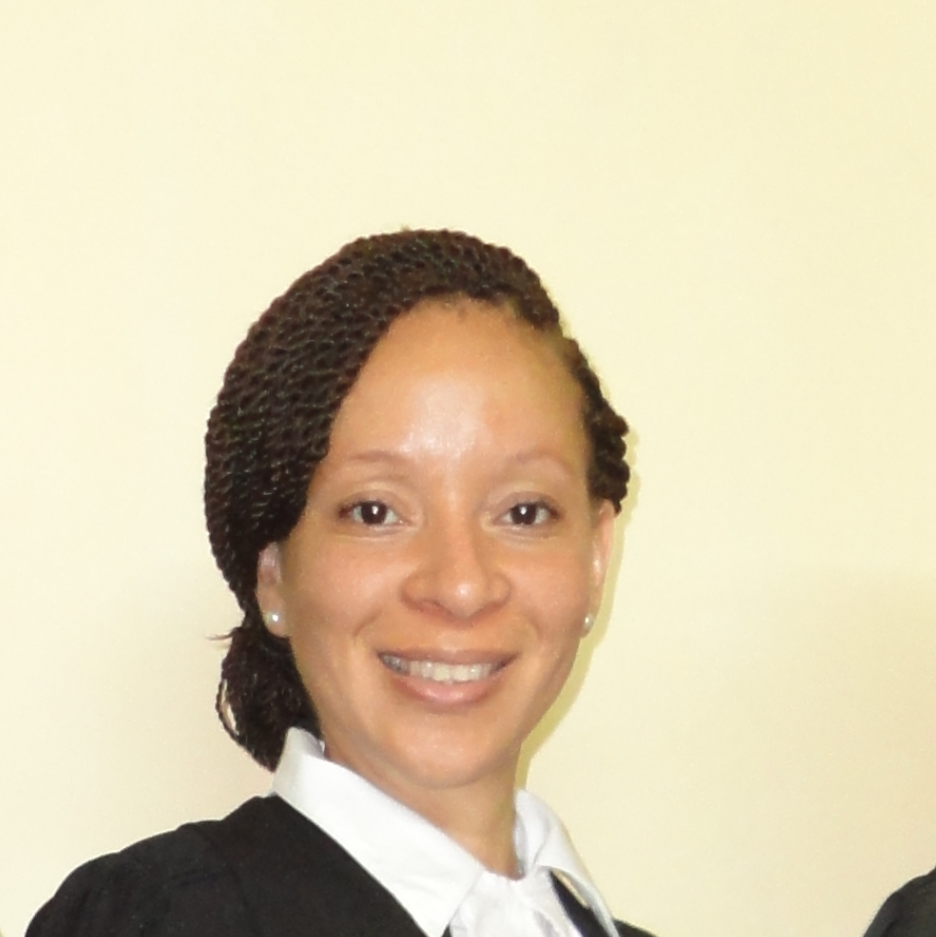
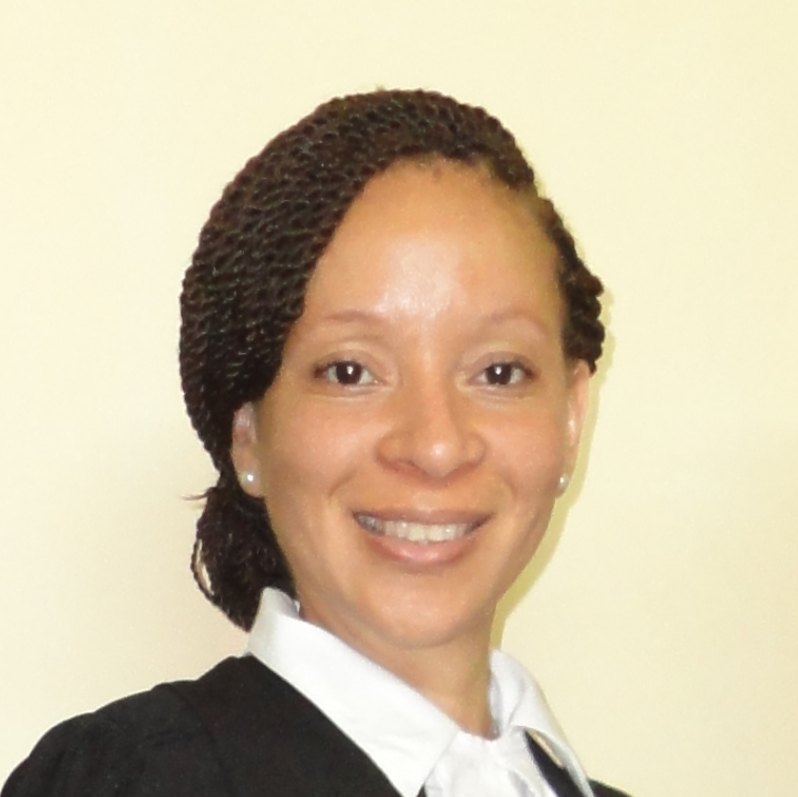
Who we are page completed and privacy policy and discllaimer title color changed

Changed region(s): [[0.0, 0.0903, 0.812, 1.0], [0.9023, 0.9034, 1.0, 1.0]]

diff --git a/_pages/who_we_are.html b/_pages/who_we_are.html
@@ -1,63 +1,85 @@
 ---
 layout: default
 permalink: /who_we_are/
-featured_image: '/images/banner-lawbooks.jpg'
+featured_image: '/images/welcome-stone.png'
 ---
 
 {% for item in site.data.who_we_are.content%}
-<div class="container side-padding border categories">
-    <div class="row">
-        <div class="col-sm-12 heading centered-text"><h3>{{ item.heading }}</h3></div>
-        <div class="content">
-                <p class="text base-padding {{item.format}}">{{ item.text }}</p>
-       	</div>
-    </div>  
-</div>
-{% endfor %}
+<div class="container">
+        <div class="row">
+            <div class="col-sm-12 heading centered-text"><h1>{{ item.heading }}</h1></div>
+            <div class="content">
+                    <p class="text base-padding {{item.format}}">{{ item.text }}</p>
+            </div>
+        </div>  
+    {% endfor %}
 
-<div class="container side-padding border categories">
+    <div class="row divider-padding  no-padding-divider">
+        <div class="col-xs-2 section-divider background-red divider-height">
+        </div>
+        <div class="col-xs-10 section-divider background-grey divider-height">
+        </div>
+    </div>
+</div>
+
+<div class="container">
     <div class="row">
-        <div class="col-sm-12 heading centered-text"><h3>{{ site.data.who_we_are.the_team.heading }}</h3></div>
+        <div class="col-sm-12 heading centered-text"><h1>{{ site.data.who_we_are.the_team.heading }}</h1></div>
             <div class="the_team">
             	<p class="text justify-text base-padding">{{ site.data.who_we_are.the_team.intro-text }}</p>
             </div>
     </div>
 
-
-
-
-
     {% for item in site.data.who_we_are.bios %}
-        <div class="container side-padding">
-            <div class="row is-flex">
-                {% if item.image-location == 'left' %}
-                    <div class="col-sm-4">
-                        <div class="center-img">
-                            <img class="bio-img" src="{{item.image-url}}"/>
-                        </div>
-                    </div>                       
-                    <div class="col-sm-8">
-                        <div class="heading base-padding"><h3>{{item.heading}}</h3></div>
-                        <div class="bio">
-                            <p class="text base-padding justify-text">{{ item.text }}</p>
-                        </div>
+    <div class="container">
+        <div class="row is-flex">
+            {% if item.image-location == 'left' %}
+                <div class="col-sm-4">
+                    <div class="center-img">
+                        <img class="bio-img" src="{{item.image-url}}"/>
                     </div>
+                </div>                       
+                <div class="col-sm-8">
+                    <div class="heading base-padding"><h3>{{item.heading}}</h3></div>
+                    <div class="bio">
+                        <p class="text base-padding justify-text">{{ item.text }}</p>
+                    </div>
+                </div>
 
-                {% else %}
-                    <div class="col-sm-4 col-sm-push-8">
-                        <div class="center-img">    
-                            <img class="bio-img" src="{{item.image-url}}"/>
-                        </div>
+            {% else %}
+                <div class="col-sm-4 col-sm-push-8">
+                    <div class="center-img">    
+                        <img class="bio-img" src="{{item.image-url}}"/>
                     </div>
-                    <div class="col-sm-8 col-sm-pull-4">
-                        <div class="heading base-padding"><h3>{{item.heading}}</h3></div>
-                        <div class="bio">
-                            <p class="text base-padding justify-text">{{ item.text }}</p>
-                        </div>
-                    </div>        
-                {% endif %}            
-            </div>
+                </div>
+                <div class="col-sm-8 col-sm-pull-4">
+                    <div class="heading base-padding"><h3>{{item.heading}}</h3></div>
+                    <div class="bio">
+                        <p class="text base-padding justify-text">{{ item.text }}</p>
+                    </div>
+                </div>        
+            {% endif %}            
         </div>
+    </div>
     {% endfor %}
+
+    <div class="row divider-padding">
+        <div class="col-xs-2 section-divider background-red divider-height">
+        </div>
+        <div class="col-xs-10 section-divider background-grey divider-height">
+        </div>
+    </div>
+
+    {% for item in site.data.who_we_are.evolution%}
+    <div class="container">
+        <div class="row">
+            <div class="col-sm-12 heading centered-text"><h1>{{ item.heading }}</h1></div>
+            <div class="content base-padding">
+                    <p class="text {{item.format}}">{{ item.text }}</p>
+            </div>
+        </div>  
+    </div>
+    {% endfor %}
+
 </div>
 

diff --git a/_pages/privacy_policy.html b/_pages/privacy_policy.html
@@ -9,19 +9,19 @@ title: 'Privacy Policy'
 <div class="container">
     <div class="row">
         <div class="heading"><h3>{{item.heading}}</h3></div>
-        <div class="content">
-            {% if item.upper-text %}
-                <p class="text">{{item.upper-text}}</p>
-                <ul>
-                    {% for list-item in item.list%}
-                        <li>{{list-item.text}}</li>
-                    {% endfor %}
-                </ul>
-                <p class="text">{{item.lower-text}}</p>
-            {% else %}            
-                <p class="text">{{item.text}}</p>
-            {% endif %}
-        </div>
+            <div class="content">
+                {% if item.upper-text %}
+                    <p class="text">{{item.upper-text}}</p>
+                    <ul>
+                        {% for list-item in item.list%}
+                            <li>{{list-item.text}}</li>
+                        {% endfor %}
+                    </ul>
+                    <p class="text">{{item.lower-text}}</p>
+                {% else %}            
+                    <p class="text">{{item.text}}</p>
+                {% endif %}
+            </div>
     </div>
 </div>
 {% endfor %}

diff --git a/css/style.scss b/css/style.scss
@@ -37,6 +37,7 @@ p, li{
     color: $franco-dark-blue;
 }
 
+
 .list-title{
     font-size: 20px;
     color: $franco-dark-blue;
@@ -50,11 +51,6 @@ p, li{
 
 .padding{
     padding: $base-padding;
-}
-
-.side-padding{
-    padding-left: 30px;
-    padding-right: 30px;
 }
 
 .color-white{
@@ -494,7 +490,7 @@ h1.special {
     font-size: 69px;
     line-height: 69px;
     font-weight: 700;
-    color: $franco-yellow;
+    color: $franco-dark-blue;
 
     span {
         display: inline-block;
@@ -757,16 +753,13 @@ pre {
 /*Who we are page*/
 
 .bio-img{
-    border-radius: 50%;
+    border-radius: 0%;
     display: flex;
     align-items: center;
-    padding: $base-padding;
+    border: 5px solid $franco-dark-blue;
     
 }
 
-.categories {
-     margin-top: 60px;
-}
 
 /*NavBar Logo */
 
